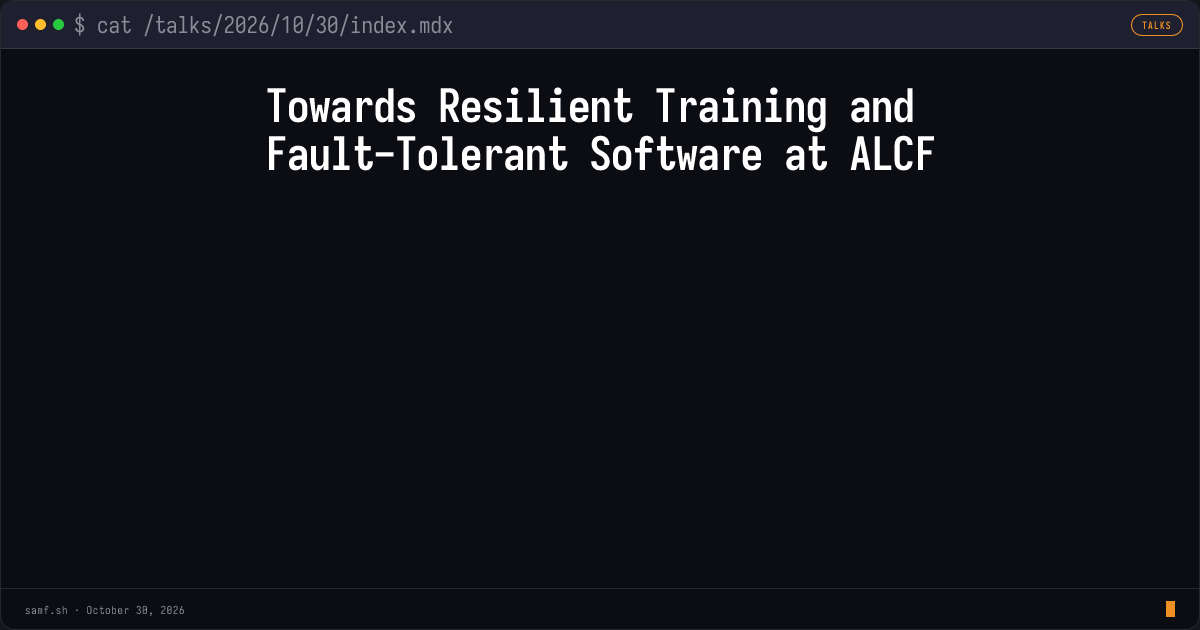
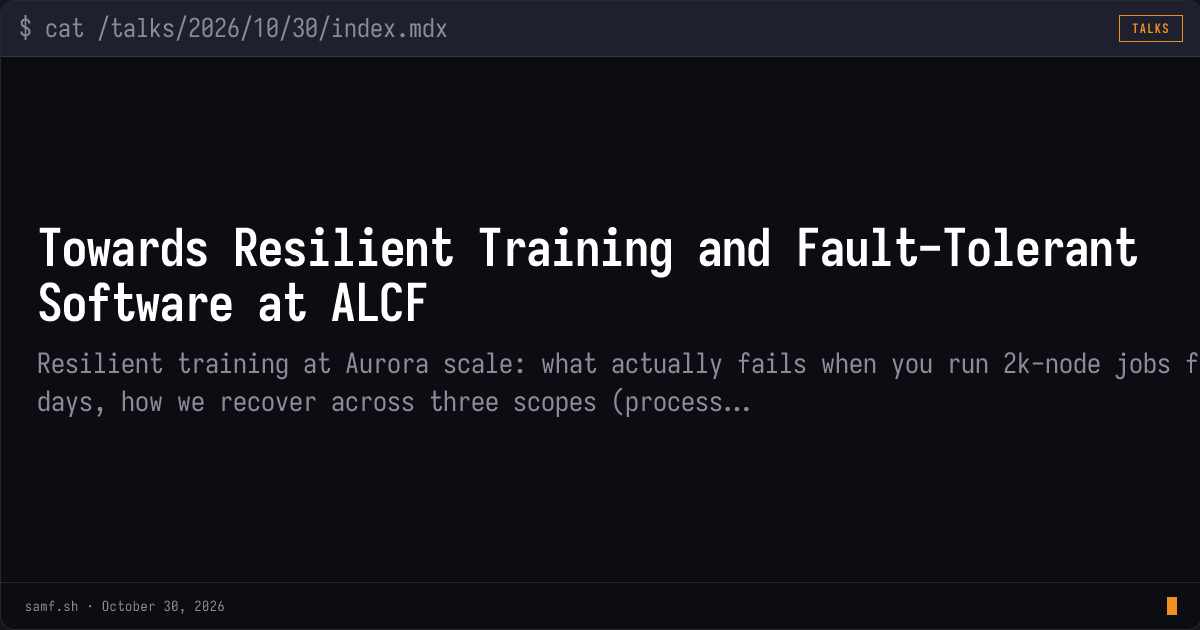
style(og): left-aligned C2 — 52/56px title + 28px description, square badge, no stoplights
Regenerates the cards from the stashed wip og churn variant that was
overwritten by PR #56's centered C2. Larger left-aligned type, muted
description line (truncated at 140ch), square category badge.

- fix perf: body flex was unconstrained (8s/card -> 60ms)
- SlideLayout ogSlug wire already landed in 108b877
- regenerate talks/2026/10/30 (the preview you screenshotted) + social-card

diff --git a/scripts/generate-og-images.ts b/scripts/generate-og-images.ts
@@ -1,7 +1,7 @@
 /**
- * Offline OG image generator — C2 "terminal rebuilt, tightened".
- * Single continuous frame: titlebar (dots · $ cat · tinted pill) + body
- * (46px bold white title, prompt spine) + thin footer (`samf.sh · date`).
+ * Offline OG image generator — C2 + description + larger type (no stoplights, square badge).
+ * Single continuous frame: titlebar ($ cat + square pill) + body
+ * (left-aligned title + muted description at 28px) + footer (samf.sh · date, 14px).
  */
 
 import { readdir, stat, mkdir } from 'node:fs/promises'
@@ -92,44 +92,31 @@ const row = (style: Record<string, unknown>, children: unknown[]) => ({
     type: 'div',
     props: { style: { display: 'flex', flexDirection: 'row', ...style }, children },
 })
-const txt = (text: string, style: Record<string, unknown> = {}) => ({
-    type: 'div',
-    props: { style: { display: 'flex', fontFamily: 'IBM Plex Mono, Iosevka, monospace', ...style }, children: text },
-})
-
-const pill = (label: string, tint: string) =>
-    txt(label, {
-        fontSize: '10px',
-        fontWeight: 700,
-        letterSpacing: '.09em',
-        textTransform: 'uppercase',
-        color: tint,
-        border: `1px solid ${tint}`,
-        borderRadius: '999px',
-        padding: '4px 10px',
-        whiteSpace: 'nowrap',
-    })
-
-const trafficDots = () =>
-    row({ alignItems: 'center', gap: '7px', display: 'flex', flexShrink: 0 }, [
-        { type: 'div', props: { style: { width: '11px', height: '11px', borderRadius: '50%', backgroundColor: '#ff5f56' }, children: [] } },
-        { type: 'div', props: { style: { width: '11px', height: '11px', borderRadius: '50%', backgroundColor: '#ffbd2e' }, children: [] } },
-        { type: 'div', props: { style: { width: '11px', height: '11px', borderRadius: '50%', backgroundColor: '#27c93f' }, children: [] } },
-    ])
 
 async function generateOgImage(
     title: string,
+    description: string | null,
     date: string | null,
     category: string,
     promptPath: string,
 ): Promise<Buffer> {
     const accent = CATEGORY_COLOR[category] ?? DEFAULT_ACCENT
-    // 46px bold sans title (fixed for C2 — shorter titles can breathe)
-    const titleSize = 46
+    const titleSize = description ? 52 : 56
     const prompt = `$ cat ${promptPath}`
-    const promptSize = prompt.length > 58 ? 18 : prompt.length > 46 ? 21 : 23
-
+    const promptSize = prompt.length > 58 ? 20 : prompt.length > 46 ? 23 : 26
     const footerText = date ? `samf.sh · ${date}` : 'samf.sh'
+
+    let shortDesc: string | null = null
+    if (description) {
+        const cleaned = description.replace(/\s+/g, ' ').trim()
+        if (cleaned.length > 140) {
+            const cut = cleaned.slice(0, 137)
+            const lastSpace = cut.lastIndexOf(' ')
+            shortDesc = (lastSpace > 100 ? cut.slice(0, lastSpace) : cut) + '…'
+        } else {
+            shortDesc = cleaned
+        }
+    }
 
     const tree = col(
         {
@@ -138,7 +125,6 @@ async function generateOgImage(
             fontFamily: 'IBM Plex Sans, IBM Plex Mono, sans-serif',
         },
         [
-            // Outer card: one continuous frame, square bottom
             col({
                 width: '100%', height: '100%',
                 backgroundColor: BODY_BG,
@@ -147,33 +133,26 @@ async function generateOgImage(
                 overflow: 'hidden',
                 color: FG,
             }, [
-                // Titlebar: traffic dots · path · tinted pill
+                // Titlebar: $ cat path + square badge (no stoplights)
                 row({
                     display: 'flex', alignItems: 'center', justifyContent: 'space-between',
-                    padding: '10px 16px',
+                    padding: '12px 18px',
                     backgroundColor: TITLEBAR_BG,
                     borderBottom: `1px solid ${FRAME_BORDER}`,
                 }, [
-                    // Left: dots + prompt wrapped in a single flex container (satori-safe)
-                    row({ alignItems: 'center', gap: '10px', flexShrink: 1, overflow: 'hidden' }, [
-                        row({ alignItems: 'center', gap: '7px', flexShrink: 0 }, [
-                            { type: 'div', props: { style: { width: '11px', height: '11px', borderRadius: '50%', backgroundColor: '#ff5f56', display: 'flex' }, children: [] } },
-                            { type: 'div', props: { style: { width: '11px', height: '11px', borderRadius: '50%', backgroundColor: '#ffbd2e', display: 'flex' }, children: [] } },
-                            { type: 'div', props: { style: { width: '11px', height: '11px', borderRadius: '50%', backgroundColor: '#27c93f', display: 'flex' }, children: [] } },
-                        ]),
-                        { type: 'div', props: { style: { display: 'flex', fontFamily: 'IBM Plex Mono, monospace', fontSize: `${promptSize}px`, color: MUTED, whiteSpace: 'nowrap', overflow: 'hidden', textOverflow: 'ellipsis', flexShrink: 1 }, children: prompt } },
-                    ]),
-                    // Right pill
-                    { type: 'div', props: { style: { display: 'flex', fontSize: '10px', fontWeight: 700, letterSpacing: '.09em', textTransform: 'uppercase', color: accent, border: `1px solid ${accent}`, borderRadius: '999px', padding: '4px 10px', whiteSpace: 'nowrap', flexShrink: 0 }, children: category } },
+                    { type: 'div', props: { style: { display: 'flex', fontFamily: 'IBM Plex Mono, monospace', fontSize: `${promptSize}px`, color: MUTED, whiteSpace: 'nowrap', overflow: 'hidden', textOverflow: 'ellipsis', flexShrink: 1 }, children: prompt } },
+                    { type: 'div', props: { style: { display: 'flex', fontSize: '13px', fontWeight: 700, letterSpacing: '.08em', textTransform: 'uppercase', color: accent, border: `1px solid ${accent}`, borderRadius: '0', padding: '5px 12px', whiteSpace: 'nowrap', flexShrink: 0, marginLeft: '16px' }, children: category } },
                 ]),
-                // Body: single div with the title as direct text node (satori-safe)
+                // Body: left-aligned title + description
                 {
                     type: 'div',
                     props: {
                         style: {
-                            display: 'flex', flex: 1,
-                            padding: '32px 36px',
+                            display: 'flex', flex: 1, width: '100%',
+                            padding: '28px 36px',
+                            flexDirection: 'column',
                             alignItems: 'flex-start', justifyContent: 'center',
+                            gap: '14px',
                         },
                         children: [
                             {
@@ -185,24 +164,38 @@ async function generateOgImage(
                                         color: FG,
                                         lineHeight: 1.05,
                                         letterSpacing: '-.03em',
-                                        fontFamily: 'IBM Plex Sans, sans-serif',
-                                        textWrap: 'balance',
+                                        textAlign: 'left',
                                     },
                                     children: title,
                                 },
                             },
+                            ...(shortDesc
+                                ? [{
+                                      type: 'div' as const,
+                                      props: {
+                                          style: {
+                                              fontSize: '28px',
+                                              fontWeight: 400,
+                                              color: MUTED,
+                                              lineHeight: 1.35,
+                                              textAlign: 'left' as const,
+                                          },
+                                          children: shortDesc,
+                                      },
+                                  }]
+                                : []),
                         ],
                     },
                 },
-                // Footer: single thin mono line — flat row with 2 single children
+                // Footer
                 row({
                     display: 'flex',
                     alignItems: 'center', justifyContent: 'space-between',
-                    padding: '12px 24px',
+                    padding: '14px 24px',
                     borderTop: `1px solid ${FRAME_BORDER}`,
                 }, [
-                    { type: 'div', props: { style: { fontSize: '11px', fontFamily: 'IBM Plex Mono, monospace', color: MUTED, letterSpacing: '.06em' }, children: footerText } },
-                    { type: 'div', props: { style: { width: '9px', height: '16px', backgroundColor: accent, flexShrink: 0, display: 'flex' }, children: [] } },
+                    { type: 'div', props: { style: { fontSize: '14px', fontFamily: 'IBM Plex Mono, monospace', color: MUTED, letterSpacing: '.05em' }, children: footerText } },
+                    { type: 'div', props: { style: { width: '10px', height: '18px', backgroundColor: accent, flexShrink: 0, display: 'flex' }, children: [] } },
                 ]),
             ]),
         ],
@@ -214,8 +207,6 @@ async function generateOgImage(
         fonts: [
             { name: 'IBM Plex Mono', data: regularData, weight: 400 as const, style: 'normal' as const },
             { name: 'IBM Plex Mono', data: boldData, weight: 700 as const, style: 'normal' as const },
-            // IBM Plex Sans is not loaded as a file; satori falls back to sans-serif for the title,
-            // which keeps it clean. Add if a real font file is available.
         ],
     })
     const resvg = new Resvg(svg, { fitTo: { mode: 'width', value: 1200 } })
@@ -244,6 +235,8 @@ async function main() {
             }
         }
         const title = stripEmoji(fm.title)
+        const rawDesc = fm.description?.trim() || null
+        const description = rawDesc && rawDesc.length > 0 ? stripEmoji(rawDesc) : null
         const category = slug.split('/')[0] || 'samf.sh'
         const promptPath = '/' + relative(PAGES_DIR, page)
         const date = fm.date
@@ -251,7 +244,7 @@ async function main() {
                   year: 'numeric', month: 'long', day: 'numeric', timeZone: 'UTC',
               })
             : null
-        const png = await generateOgImage(title, date, category, promptPath)
+        const png = await generateOgImage(title, description, date, category, promptPath)
         await mkdir(dirname(outPath), { recursive: true })
         await Bun.write(outPath, png)
         generated++
